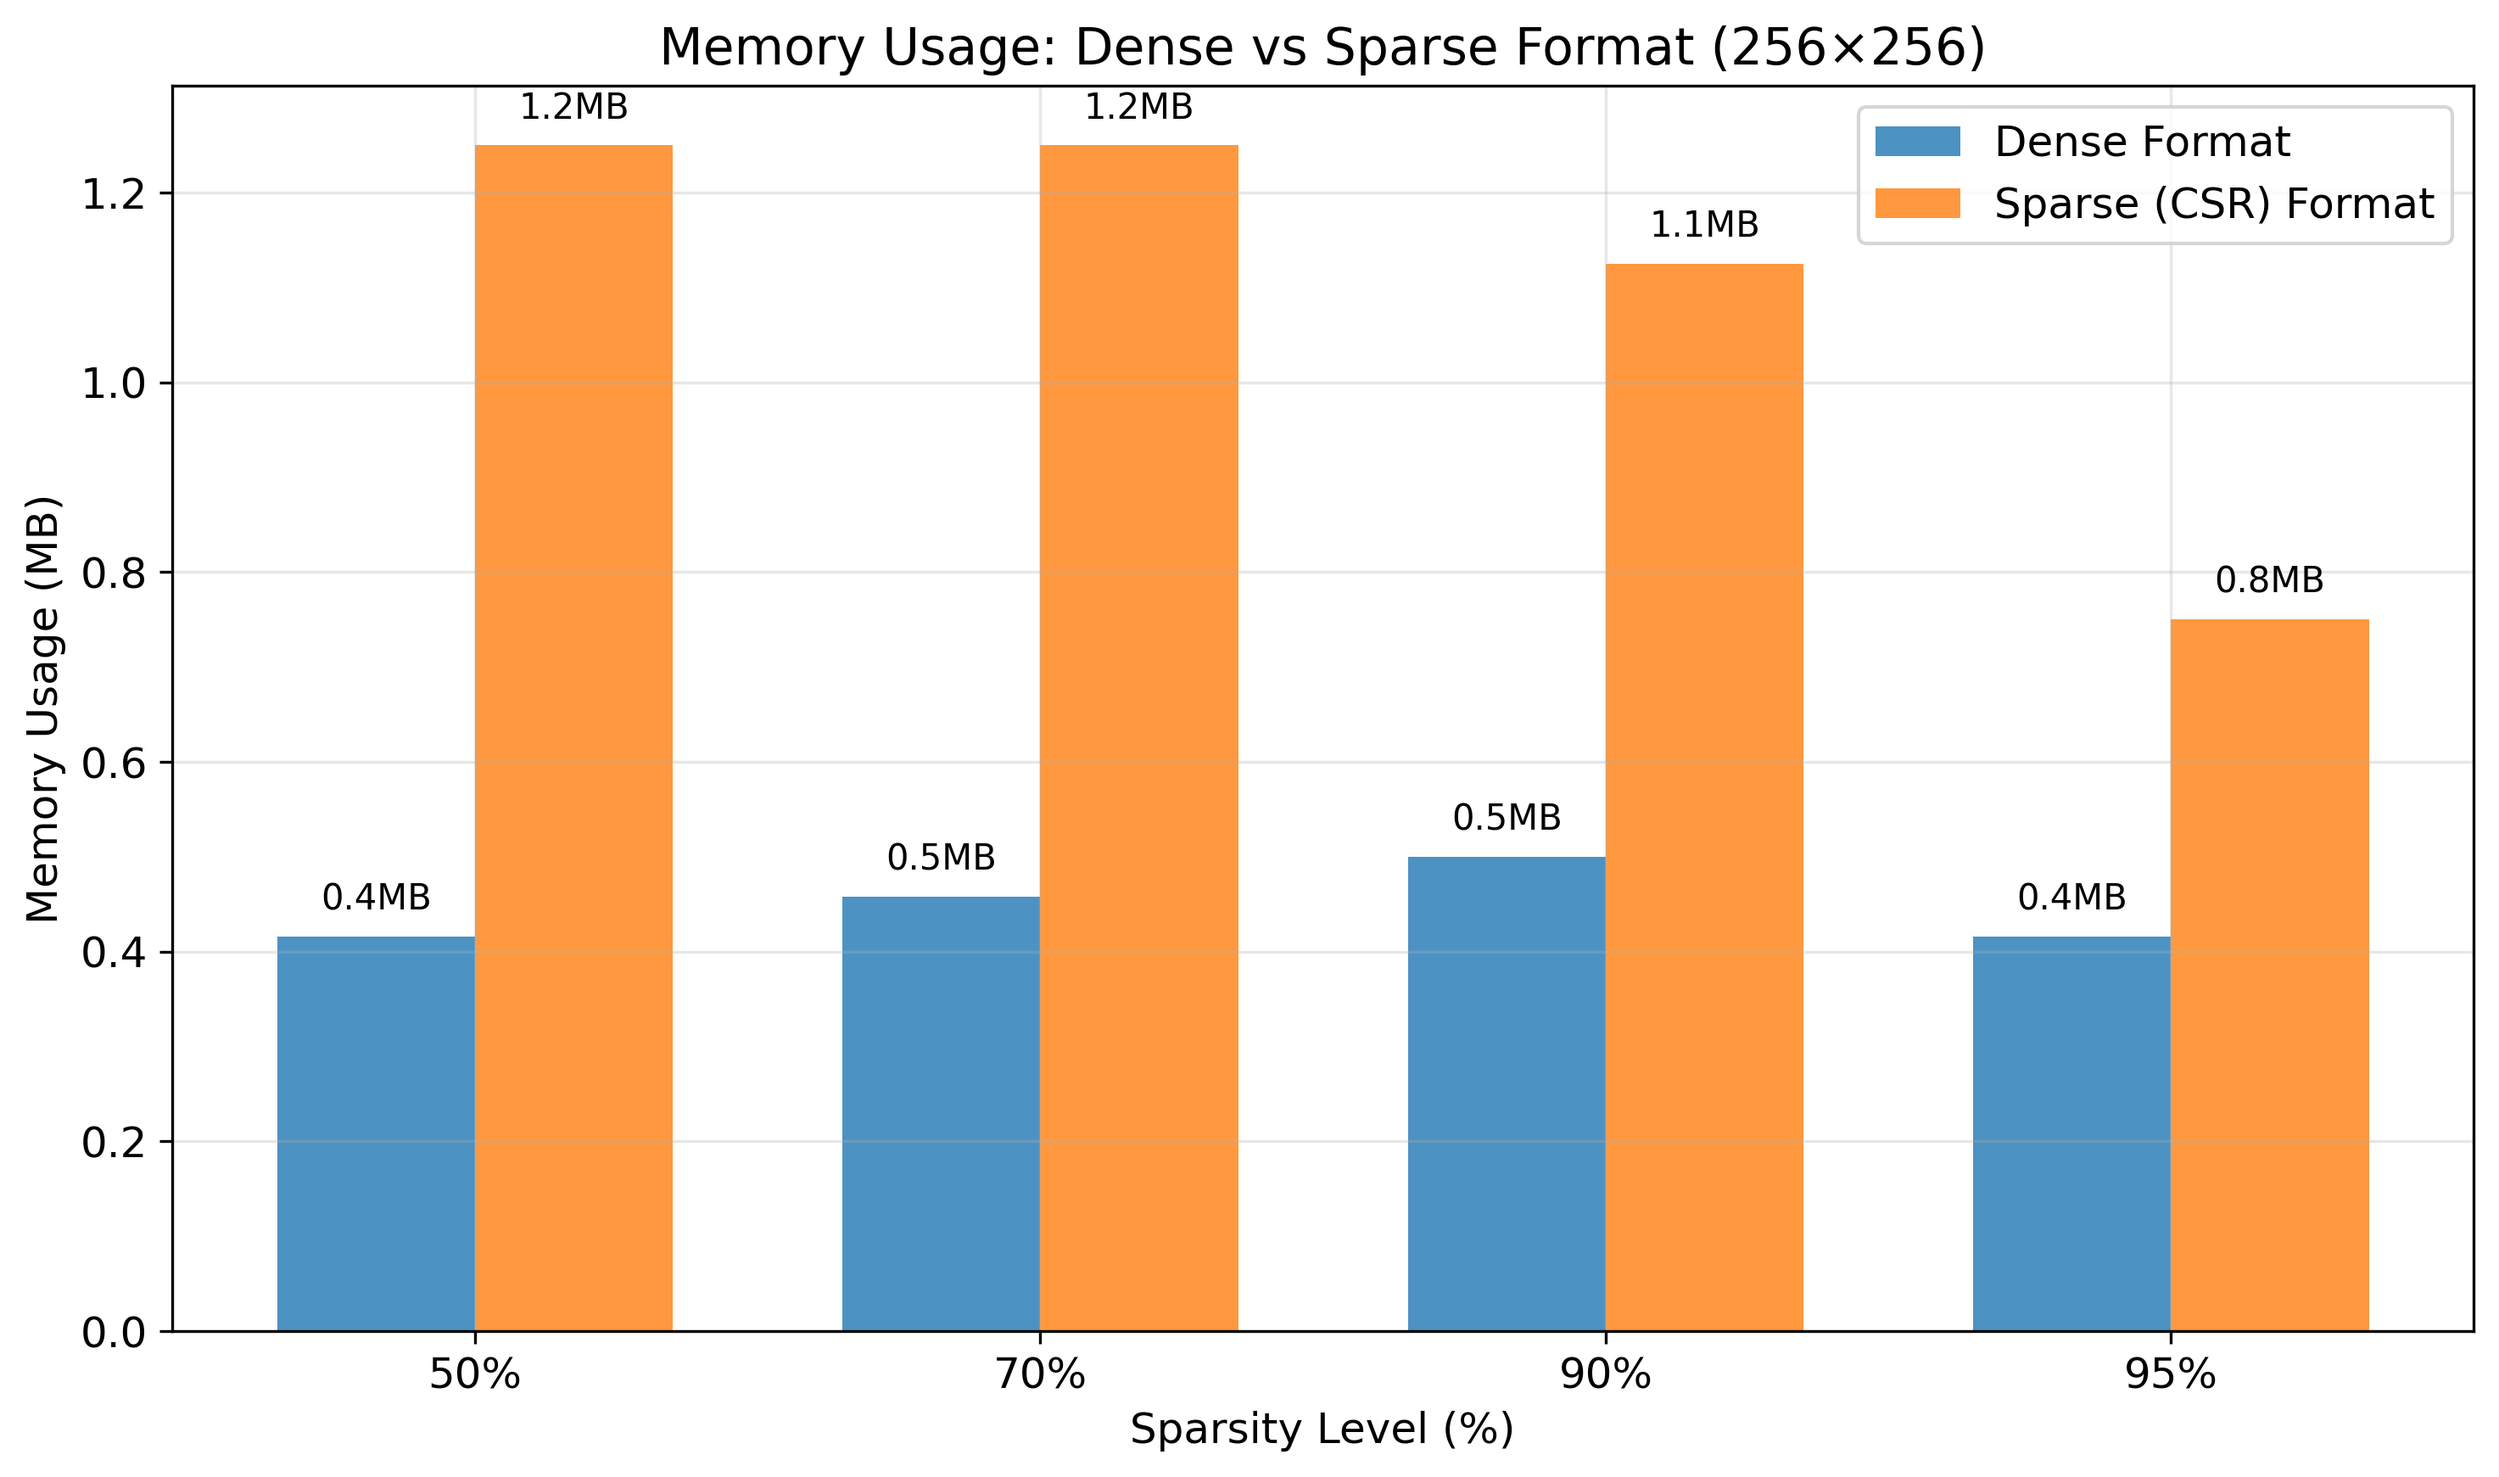
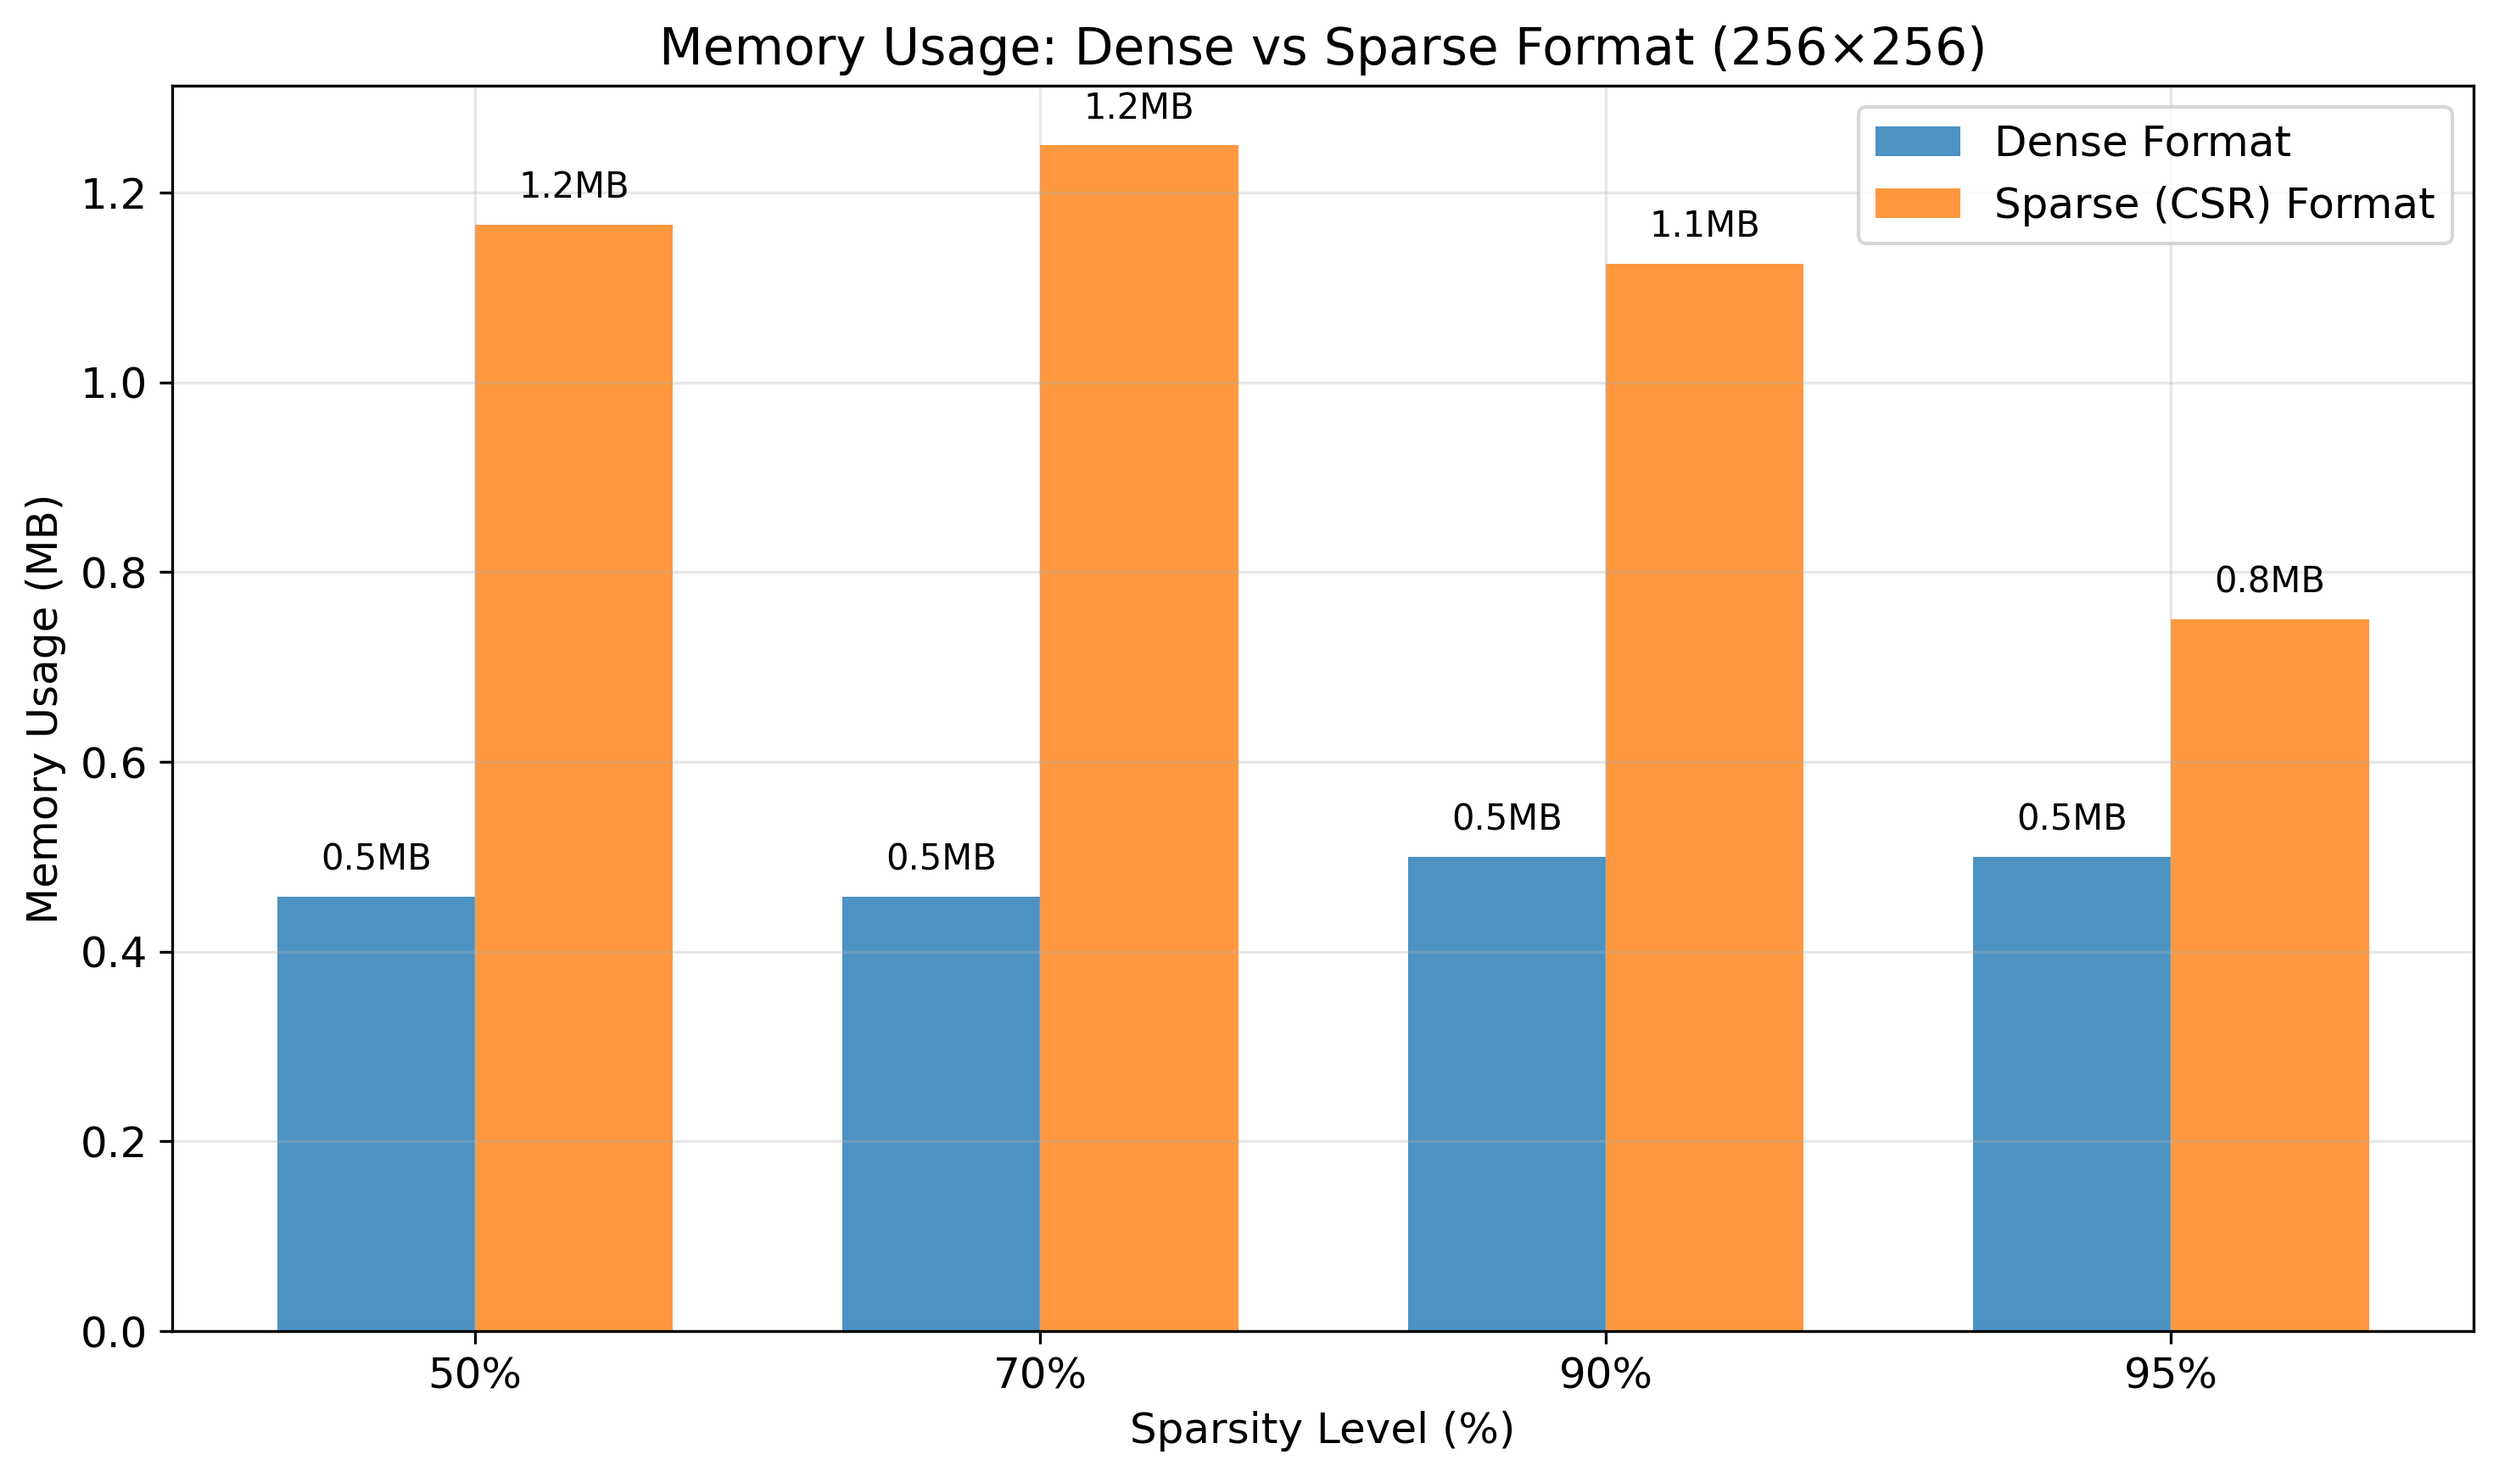
fix bug in sparsity memory benchmark

Changed region(s): [[0.7807, 0.5273, 0.8744, 0.6513], [0.0937, 0.5583, 0.1874, 0.6513], [0.1874, 0.062, 0.2811, 0.1551]]

diff --git a/Task_2/benchmarks/benchmark_sparse.c b/Task_2/benchmarks/benchmark_sparse.c
@@ -3,6 +3,7 @@
 #include <string.h>
 #include <malloc.h>
 #include <stdlib.h>
+#include <math.h>
 
 // Simple benchmark for sparse matrix multiplication
 PerformanceResult benchmark_sparse_algorithm(CSRMatrix* a, CSRMatrix* b, const char* name) {
@@ -108,7 +109,8 @@ void run_sparsity_analysis(int matrix_size, double min_sparsity __attribute__((u
         int storage_dense = matrix_size * matrix_size;
         int storage_sparse = a_sparse->nnz + b_sparse->nnz;
         double speedup = (dense_result.avg_time > 0) ? dense_result.avg_time / sparse_result.avg_time : 1.0;
-        double memory_savings = (double)(storage_dense - storage_sparse) / storage_dense * 100.0;
+        // Calculate actual runtime memory savings (negative = CSR uses more memory)
+        double memory_savings = (double)(dense_result.avg_memory - sparse_result.avg_memory) / dense_result.avg_memory * 100.0;
         
         // Export both statistical and detailed results
         export_sparse_results_csv("sparse_results.csv", matrix_size, sparsity * 100, 
@@ -116,8 +118,9 @@ void run_sparsity_analysis(int matrix_size, double min_sparsity __attribute__((u
         export_detailed_sparse_results_csv("sparse_results.csv", matrix_size, sparsity * 100,
                                           dense_results, sparse_results, num_runs, (i == 0));
         
-        printf("✓ %.0f%% sparse: %.1fx speedup, %.1f%% storage saved\n", 
-               sparsity * 100, speedup, memory_savings);
+        printf("✓ %.0f%% sparse: %.1fx speedup, %.1f%% runtime memory %s\n", 
+               sparsity * 100, speedup, fabs(memory_savings), 
+               memory_savings >= 0 ? "saved" : "overhead");
         
         // Cleanup
         free(dense_results);

diff --git a/Task_2/benchmarks/main.c b/Task_2/benchmarks/main.c
@@ -5,12 +5,12 @@
 void print_usage(const char* program_name) {
     printf("Usage: %s [option]\n", program_name);
     printf("Options:\n");
-    printf("  --help       Show this help\n");
-    printf("  --verify     Verify algorithm correctness\n");
-    printf("  --benchmark  Run performance benchmark (256, 512, 1024, 2048)\n");
-    printf("  --sparse     Sparse matrix analysis\n");
-    printf("  --maxsize    Test maximum matrix sizes for each algorithm\n");
-    printf("  (no args)    Run all tests\n");
+    printf("  --help, -h      Show this help\n");
+    printf("  --verify        Verify algorithm correctness\n");
+    printf("  --benchmark     Run performance benchmark (256, 512, 1024, 2048)\n");
+    printf("  --sparse, sparse Sparse matrix analysis\n");
+    printf("  --maxsize       Test maximum matrix sizes for each algorithm\n");
+    printf("  (no args)       Run all tests\n");
 }
 
 void verify_algorithms(void) {
@@ -147,7 +147,7 @@ int main(int argc, char* argv[]) {
         } else if (strcmp(argv[1], "--benchmark") == 0) {
             run_benchmark();
             return 0;
-        } else if (strcmp(argv[1], "--sparse") == 0) {
+        } else if (strcmp(argv[1], "--sparse") == 0 || strcmp(argv[1], "sparse") == 0) {
             run_sparse_benchmark();
             return 0;
         } else if (strcmp(argv[1], "--maxsize") == 0) {

diff --git a/Task_2/plot.py b/Task_2/plot.py
@@ -169,21 +169,21 @@ def plot_sparse_speedup():
         print("⚠  sparse_results.csv not found")
 
 def plot_sparse_memory_savings():
-    """Plot memory savings vs sparsity level"""
+    """Plot runtime memory savings vs sparsity level"""
     try:
         df = pd.read_csv('results/sparse_results.csv')
         sparse_data = df[df['Format'] == 'Sparse']
         
         sparsity = sparse_data['Sparsity_Percent'].values
-        memory_savings = sparse_data['Memory_Savings_Percent'].values
+        memory_savings = sparse_data['Runtime_Memory_Savings_Percent'].values
         
         plt.figure(figsize=(10, 6))
         colors = ['red' if x < 0 else 'green' for x in memory_savings]
         bars = plt.bar(sparsity, memory_savings, color=colors, alpha=0.7)
         
         plt.xlabel('Sparsity Level (%)')
-        plt.ylabel('Memory Savings (%)')
-        plt.title('Memory Savings vs Sparsity Level')
+        plt.ylabel('Runtime Memory Savings (%)')
+        plt.title('Runtime Memory Savings: CSR vs Dense Format')
         plt.axhline(y=0, color='black', linestyle='-', alpha=0.5)
         plt.grid(True, alpha=0.3)
         

diff --git a/Task_2/benchmarks/benchmark_csv.c b/Task_2/benchmarks/benchmark_csv.c
@@ -76,11 +76,12 @@ void export_sparse_results_csv(const char* filename, int matrix_size, double spa
     if (!file) return;
     
     if (is_first_entry) {
-        fprintf(file, "Matrix_Size,Sparsity_Percent,Format,Avg_Time_s,StdDev_Time_s,Min_Time_s,Max_Time_s,Avg_Memory_KB,StdDev_Memory_KB,Min_Memory_KB,Max_Memory_KB,Storage_Elements,Speedup,Memory_Savings_Percent\n");
+        fprintf(file, "Matrix_Size,Sparsity_Percent,Format,Avg_Time_s,StdDev_Time_s,Min_Time_s,Max_Time_s,Avg_Memory_KB,StdDev_Memory_KB,Min_Memory_KB,Max_Memory_KB,Storage_Elements,Speedup,Runtime_Memory_Savings_Percent\n");
     }
     
     double speedup = (dense.avg_time > 0) ? dense.avg_time / sparse.avg_time : 1.0;
-    double memory_savings = ((double)(storage_dense - storage_sparse) / storage_dense) * 100.0;
+    // Calculate actual runtime memory savings (negative = CSR uses more memory)
+    double memory_savings = ((double)(dense.avg_memory - sparse.avg_memory) / dense.avg_memory) * 100.0;
     
     // Write dense and sparse results
     const PerformanceStats stats[] = {dense, sparse};
